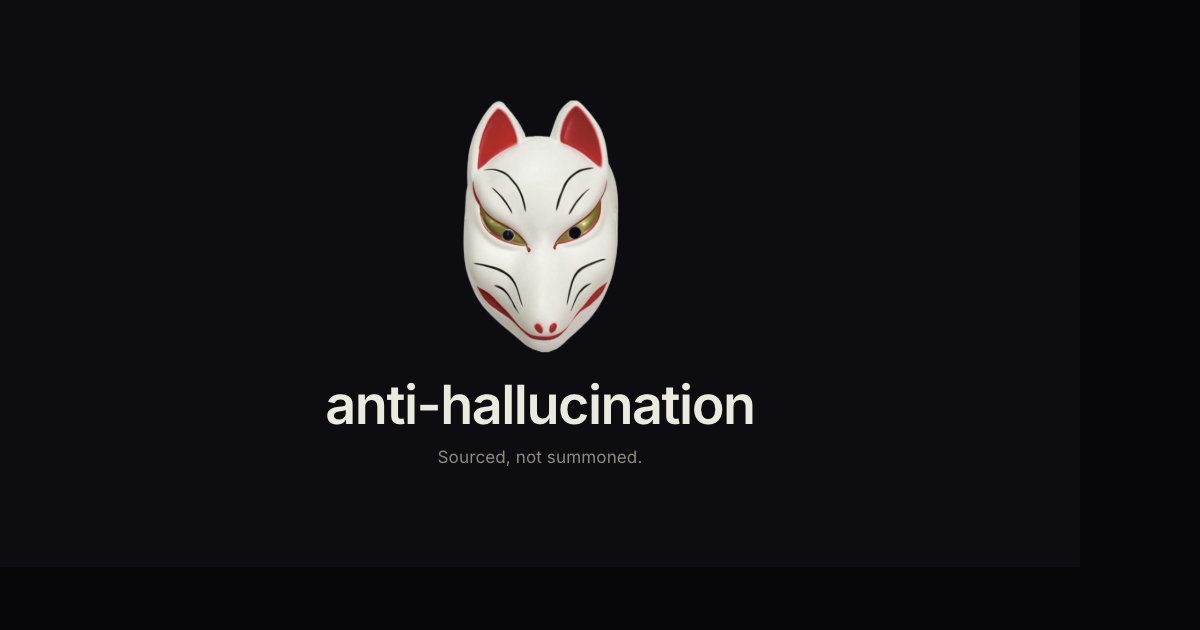
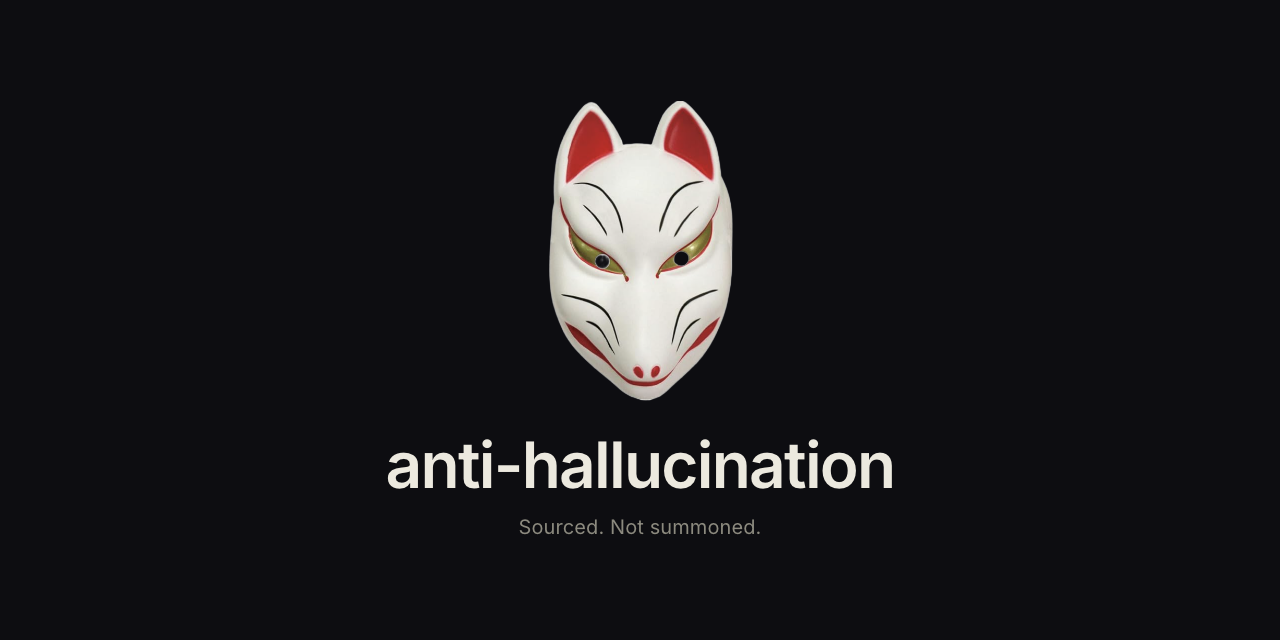
social: rebuild repo card on anti-sycophancy lockup at 1280×640
Adopt the anti-sycophancy hero-social.html lockup verbatim (flat
#0d0d11, mask 300px, Inter 64px/600 wordmark, 20px muted tagline)
with anti-hallucination content: kitsune mask, "anti-hallucination"
wordmark, "Sourced. Not summoned." tagline. Regenerate
social-preview.png at GitHub's 1280×640 repo-card spec (was 1200×630).

Changed region(s): [[0.2775, 0.1508, 0.7092, 0.7841], [0.4008, 0.8143, 0.5858, 0.8444]]

diff --git a/hero-social.html b/hero-social.html
@@ -2,60 +2,52 @@
 <html lang="en">
 <head>
 <meta charset="utf-8">
-<title>anti-hallucination — social</title>
+<title>anti-hallucination — social preview</title>
 <link rel="preconnect" href="https://fonts.googleapis.com">
 <link rel="preconnect" href="https://fonts.gstatic.com" crossorigin>
 <link href="https://fonts.googleapis.com/css2?family=Inter:wght@400;500;600;700&display=swap" rel="stylesheet">
 <style>
   :root {
-    --page:     #07070a;
-    --card:     #0d0d11;
-    --ink:      #ece9df;
-    --ink-mute: #8c8a7f;
+    --bg:         #0d0d11;
+    --ink:        #ece9df;
+    --ink-mute:   #8c8a7f;
   }
-
   * { box-sizing: border-box; margin: 0; padding: 0; }
-
   html, body {
-    background: var(--page);
+    width: 1280px;
+    height: 640px;
+    background: var(--bg);
     color: var(--ink);
     font-family: "Inter", system-ui, -apple-system, "Segoe UI", sans-serif;
     -webkit-font-smoothing: antialiased;
     text-rendering: geometricPrecision;
   }
-  body { margin: 0; }
-
-  .hero {
-    width: 1200px;
-    height: 630px;
-    background: var(--card);
-    padding: 60px 80px;
+  body {
     display: flex;
     flex-direction: column;
     align-items: center;
     justify-content: center;
     text-align: center;
+    padding: 60px 80px;
+    overflow: hidden;
   }
-
   .mask {
-    height: 280px;
+    height: 300px;
     width: auto;
     display: block;
     user-select: none;
   }
-
   .wordmark {
-    margin-top: 28px;
-    font-size: 60px;
+    margin-top: 32px;
+    font-size: 64px;
     font-weight: 600;
     letter-spacing: -0.028em;
     line-height: 1;
     color: var(--ink);
   }
-
   .tagline {
-    margin-top: 16px;
-    font-size: 19px;
+    margin-top: 18px;
+    font-size: 20px;
     font-weight: 400;
     letter-spacing: 0.005em;
     color: var(--ink-mute);
@@ -63,10 +55,8 @@
 </style>
 </head>
 <body>
-  <div class="hero">
-    <img class="mask" src="kitsune.png" alt="anti-hallucination mark">
-    <div class="wordmark">anti-hallucination</div>
-    <div class="tagline">Sourced, not summoned.</div>
-  </div>
+  <img class="mask" src="kitsune.png" alt="anti-hallucination mark">
+  <div class="wordmark">anti-hallucination</div>
+  <div class="tagline">Sourced. Not summoned.</div>
 </body>
 </html>